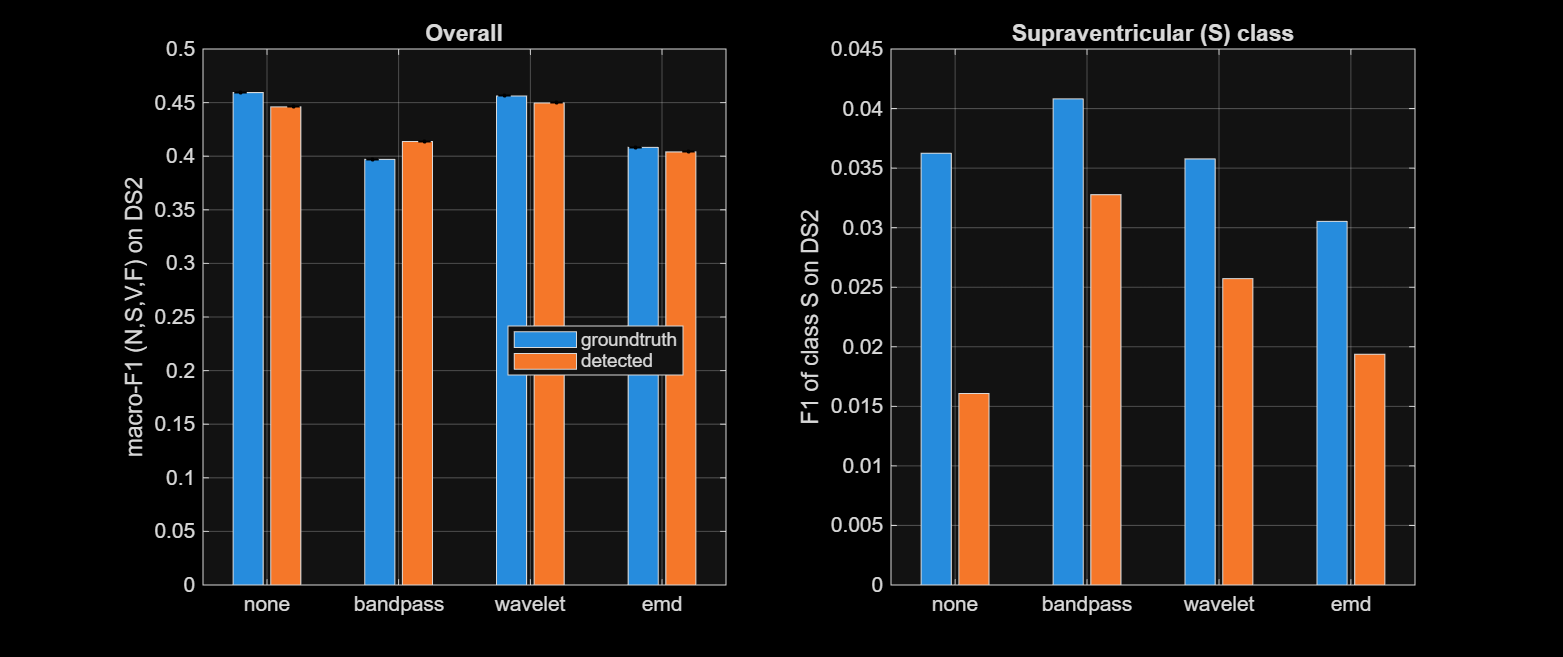
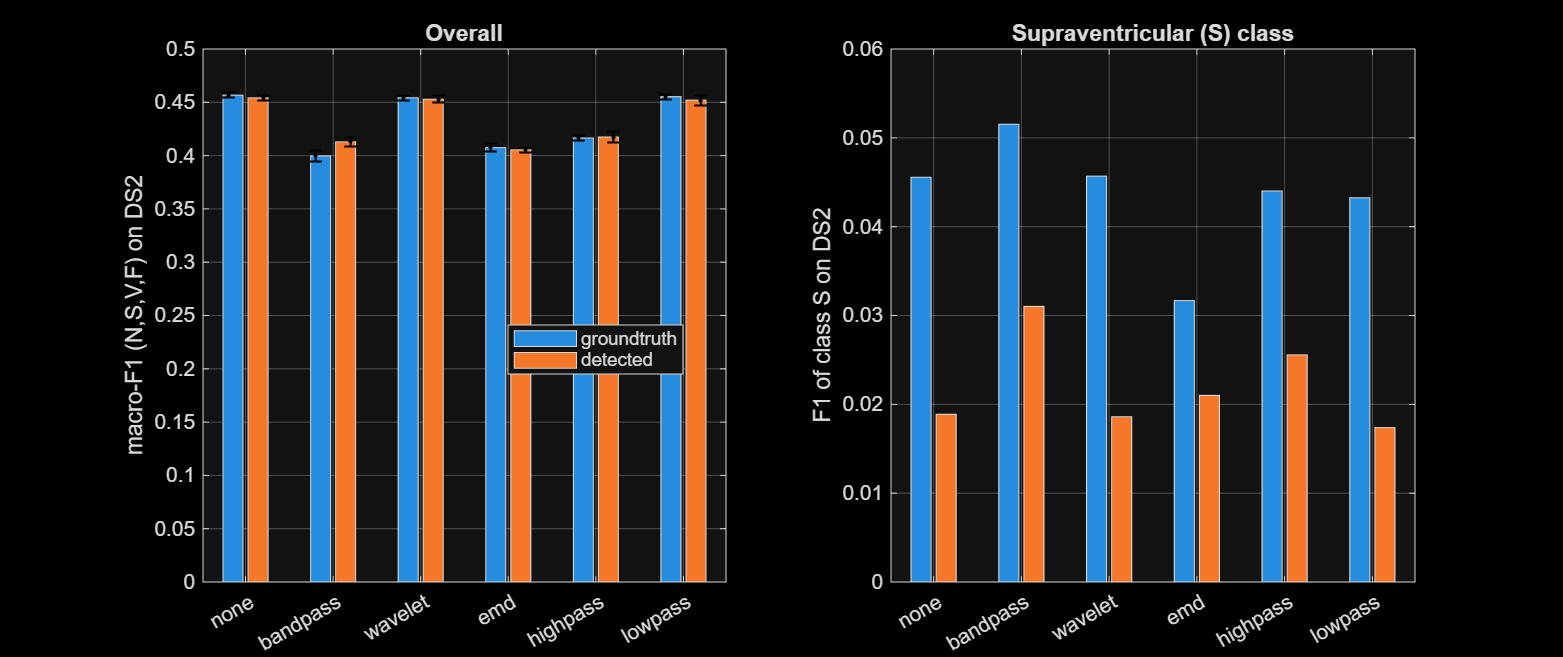
Integration results (3 seeds): wavelet/lowpass neutral, low-frequency removal lowers V-class F1
6 denoising variants x {ground-truth, detected peaks}, baseline RF, 3 seeds, patient-level bootstrap. Detection invariant to denoising. Bandpass, highpass and EMD lower macro-F1 by 0.03-0.05 (mainly V class); lowpass and wavelet no effect. S class not learned by baseline settings. Added beatnorm and hpsweep presets, run_name option, highpass_cut variant.

diff --git a/check_vs_friend.m b/check_vs_friend.m
@@ -1,0 +1,86 @@
+%CHECK_VS_FRIEND  Why does run_integration's groundtruth/none row (about 92.5 % accuracy)
+%  differ from your friend's phase4 baseline (91.48 %)?  Two candidate causes are
+%  tested separately with a 2 x 2 design:
+%     DATA   : his saved features_ds1_ds2.mat   vs   the cached run_integration data
+%              (which is stored in single precision)
+%     CALL   : his TreeBagger call (OOBPrediction + OOBPredictorImportance on)
+%              vs   the run_integration call (default options)
+%  Everything uses rng(1) immediately before training, 100 trees.
+%
+%  Run from the repo root:   check_vs_friend
+%  NEEDS:  data\processed\features_ds1_ds2.mat   (made by phase3_build.m)
+%          data\processed\variants\ds_*_groundtruth_none.mat  (made by run_integration)
+%  RUNTIME: roughly 10-20 minutes (his call also computes permutation importance).
+%  Paste the block between PASTE FROM HERE and PASTE TO HERE.
+
+clear; clc;
+addpath(genpath('src'));
+t_start = tic;
+classes = 'NSVFQ';
+nC = numel(classes);
+
+fa    = fullfile('data', 'processed', 'features_ds1_ds2.mat');
+fb_tr = fullfile('data', 'processed', 'variants', 'ds_train_groundtruth_none.mat');
+fb_te = fullfile('data', 'processed', 'variants', 'ds_test_groundtruth_none.mat');
+for f = {fa, fb_tr, fb_te}
+    if ~isfile(f{1})
+        error('Missing %s\nRun phase3_build.m (for features_ds1_ds2.mat) or run_integration.m first.', f{1});
+    end
+end
+
+A = load(fa);
+Btr = load(fb_tr, 'ds');
+Bte = load(fb_te, 'ds');
+XaTr = A.train.X;           yaTr = A.train.y(:);
+XaTe = A.test.X;            yaTe = A.test.y(:);
+XbTr = double(Btr.ds.X);    ybTr = Btr.ds.y(:);
+XbTe = double(Bte.ds.X);    ybTe = Bte.ds.y(:);
+
+fprintf('==================== PASTE FROM HERE ====================\n');
+fprintf('MATLAB %s\n\n', version);
+fprintf('---- 1. Are the two datasets the same? ----\n');
+report('DS1 (train)', XaTr, yaTr, XbTr, ybTr);
+report('DS2 (test) ', XaTe, yaTe, XbTe, ybTe);
+
+fprintf('\n---- 2. Training 2 x 2 (rng(1), 100 trees, tested on DS2) ----\n');
+fprintf('data           call                 acc %%   macro-F1 (N,S,V,F)   S sens %%\n');
+datas = {'friend file', 'cached (single)'};
+Xtrs  = {XaTr, XbTr};  Ytrs = {yaTr, ybTr};
+Xtes  = {XaTe, XbTe};  Ytes = {yaTe, ybTe};
+calls = {'friend (OOB on)', 'default options'};
+for d = 1:2
+    for k = 1:2
+        rng(1);
+        if k == 1
+            mdl = TreeBagger(100, Xtrs{d}, cellstr(Ytrs{d}), ...
+                'OOBPrediction', 'on', 'OOBPredictorImportance', 'on');
+        else
+            mdl = TreeBagger(100, Xtrs{d}, cellstr(Ytrs{d}), 'Prior', 'Empirical', 'MinLeafSize', 1);
+        end
+        pred = char(predict(mdl, Xtes{d}));
+        clear mdl;
+        [~, ti] = ismember(Ytes{d}, classes);
+        [~, pj] = ismember(pred, classes);
+        cm = accumarray([ti pj], 1, [nC nC]);
+        tp = diag(cm);  nt = sum(cm, 2);  np = sum(cm, 1)';
+        f1 = 2 * tp ./ (nt + np);  f1(isnan(f1)) = 0;
+        fprintf('%-14s %-18s %7.2f   %.3f               %5.1f\n', datas{d}, calls{k}, ...
+            100 * sum(tp) / sum(cm(:)), mean(f1(1:4)), 100 * tp(2) / nt(2));
+    end
+end
+fprintf('\nReading it: if the two rows of the SAME data agree but the two datasets differ, the data are\n');
+fprintf('the cause. If rows with the SAME call agree but the two calls differ, the options are the cause.\n');
+fprintf('Total time: %.1f min\n', toc(t_start) / 60);
+fprintf('===================== PASTE TO HERE =====================\n');
+
+function report(name, Xa, ya, Xb, yb)
+    fprintf('%s: friend %d x %d | cached %d x %d\n', name, size(Xa, 1), size(Xa, 2), size(Xb, 1), size(Xb, 2));
+    if ~isequal(size(Xa), size(Xb))
+        fprintf('   SIZES DIFFER - the datasets are not the same beats/features.\n');
+        return;
+    end
+    d = abs(Xa - Xb);
+    rel = d ./ max(abs(Xa), 1e-12);
+    fprintf('   labels identical: %d | max abs diff %.3g | max rel diff %.3g | entries differing by >1e-6: %d\n', ...
+        isequal(ya, yb), max(d(:)), max(rel(:)), nnz(d > 1e-6));
+end
